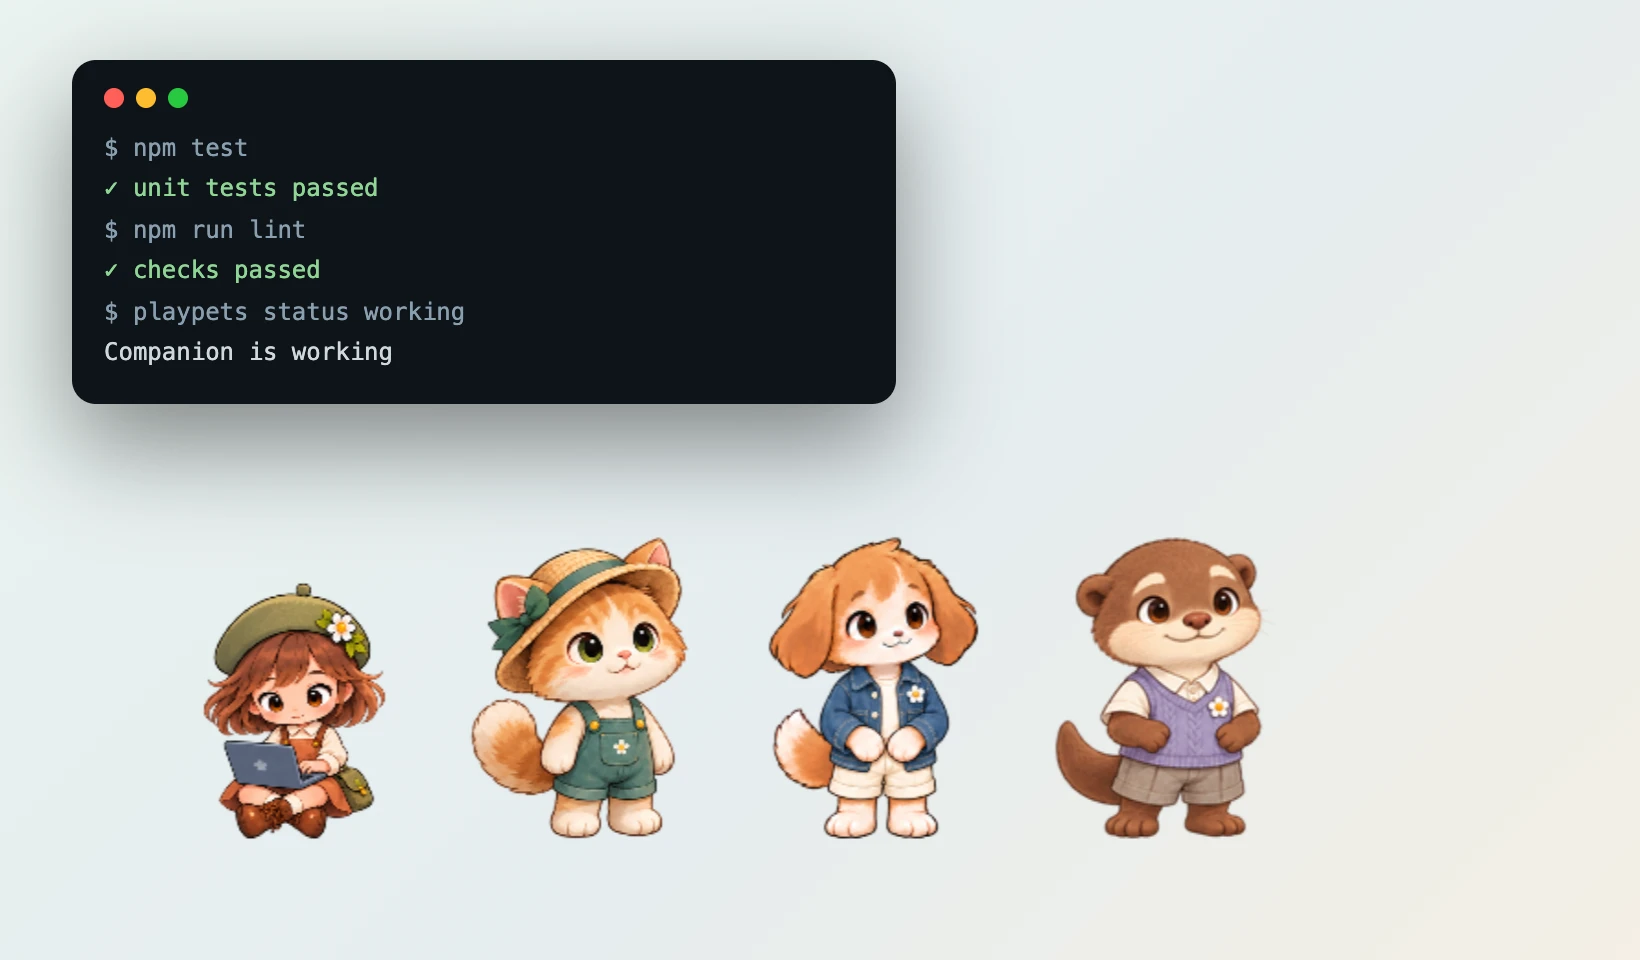
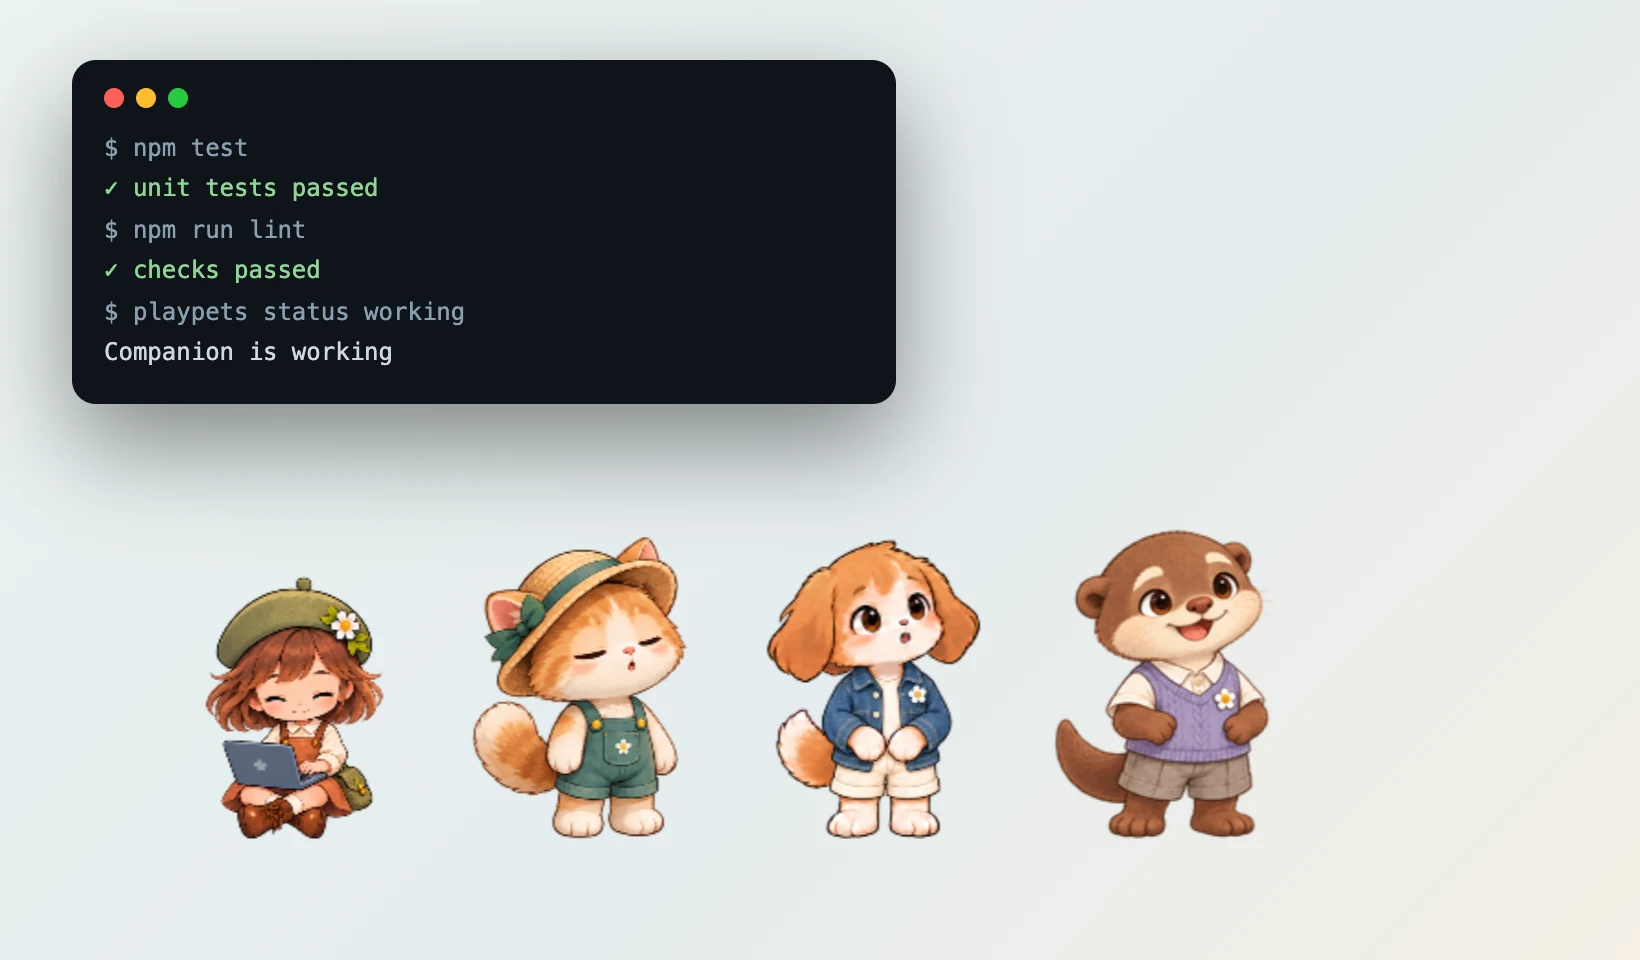
Keep the older desktop screenshots with the indicator painted out and hold the scene for the capture
- website/public/shots/{0.2.0,1.0.0,1.1.0}/*/desktop.webp come back instead of being deleted. The
  indicator's box (bottom-right, 312×92 px) is refilled with a plane fitted to the surrounding
  wallpaper gradient. Their URLs keep working for anything outside the site that links them.
- shots.mjs holds the desktop scene 4 s after the shot. Capturing the overlay and rendering the
  backdrop can outlast the shot's 1.8 s pause; one run lost the English picture when desktop mode
  closed the window under the capture.
- Recaptured 1.2.0 desktop.webp in all four languages with this code, and the listing JPEG with
  npm run art (other art outputs unchanged).
- CHANGELOG: the Store listing never carried this picture, so the line names the site and the
  Linux listing only.
- Checked: opened all 20 desktop.webp, the listing JPEG and the four Store PNGs; a detector for
  the indicator's green outline finds it in none. npm test, npm run lint, npm run site:build.

diff --git a/CHANGELOG.md b/CHANGELOG.md
@@ -14,7 +14,7 @@ Changes people can see in PlayPets, release by release. The format follows [Keep
 ### Fixed
 
 - Keep the seed count inside the Plant a seed tile when the tile is narrow, as in Chinese with ten or more seeds.
-- Retake the desktop-mode screenshot on the website and in the Linux and Microsoft Store listings without the macOS screen-sharing indicator that sat in its corner.
+- Retake the desktop-mode screenshot on the website and in the Linux software-center listing without the macOS screen-sharing indicator that sat in its corner.
 
 ### Security
 
